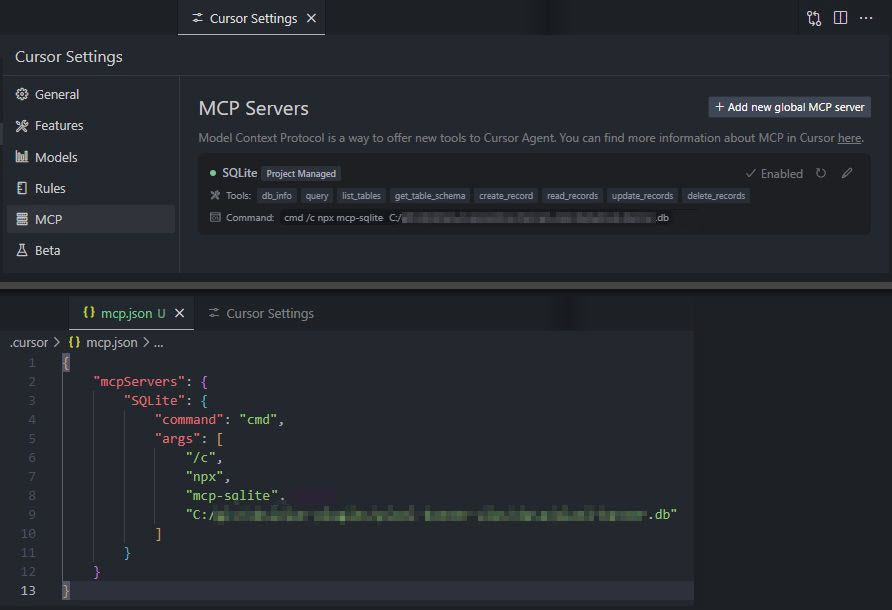
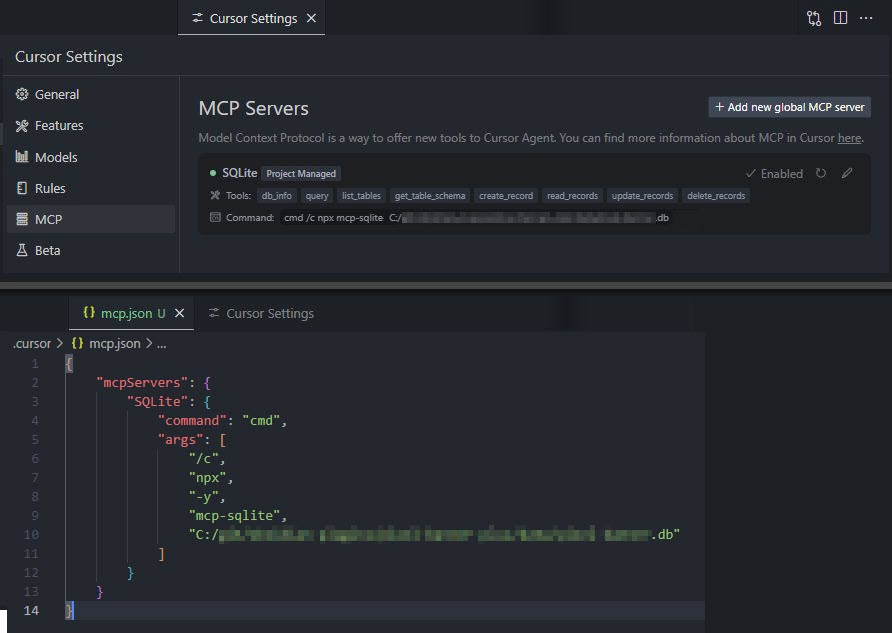
docs

diff --git a/README.md b/README.md
@@ -24,6 +24,7 @@ e.g. Cursor:
         "MCP SQLite Server": {
             "command": "npx",
             "args": [
+                "-y",
                 "mcp-sqlite",
                 "<path-to-your-sqlite-database.db>"
             ]
@@ -41,6 +42,7 @@ e.g. Cursor:
             "args": [
                 "/c",
                 "npx",
+                "-y",
                 "mcp-sqlite",
                 "<path-to-your-sqlite-database.db>"
             ]
